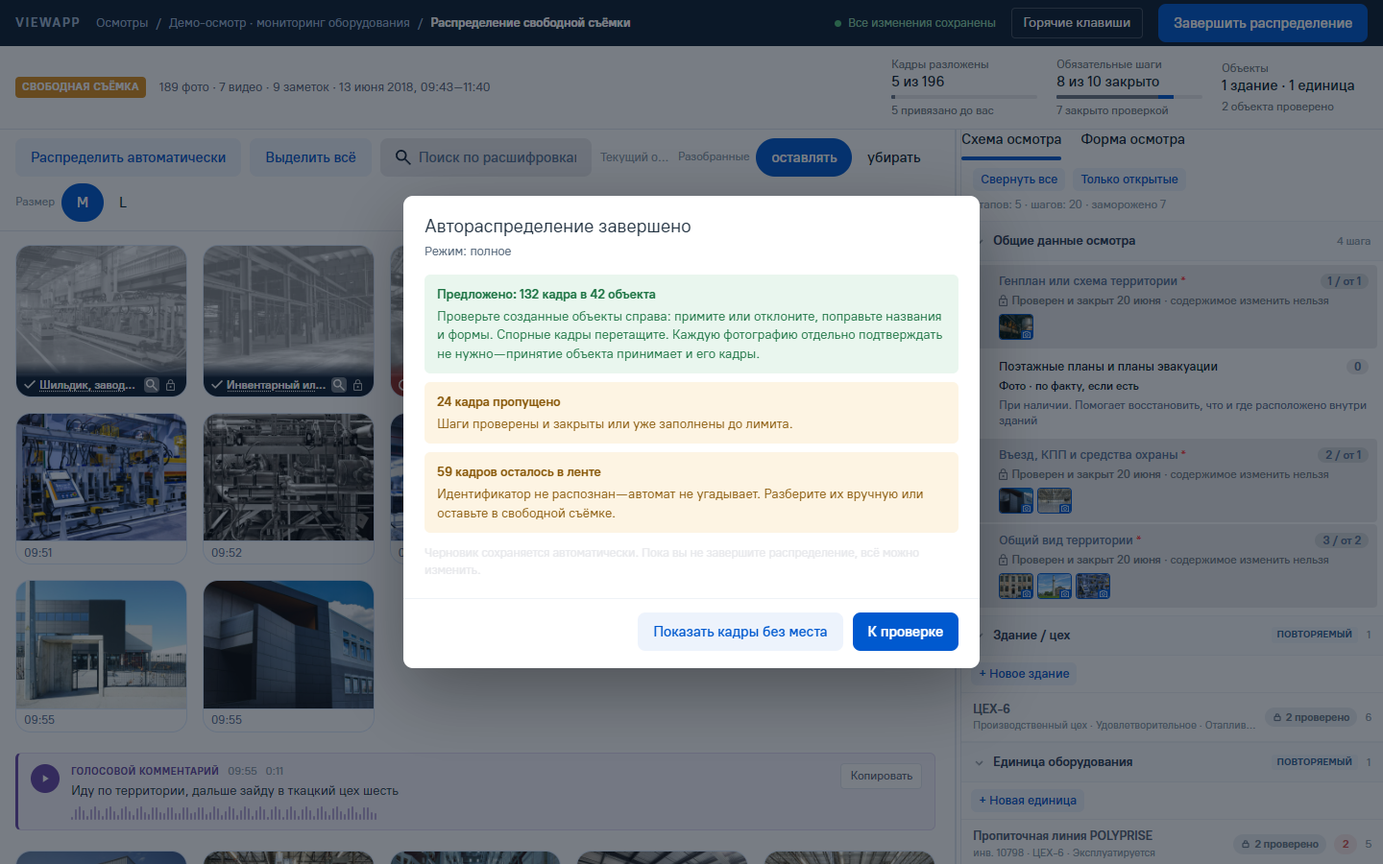
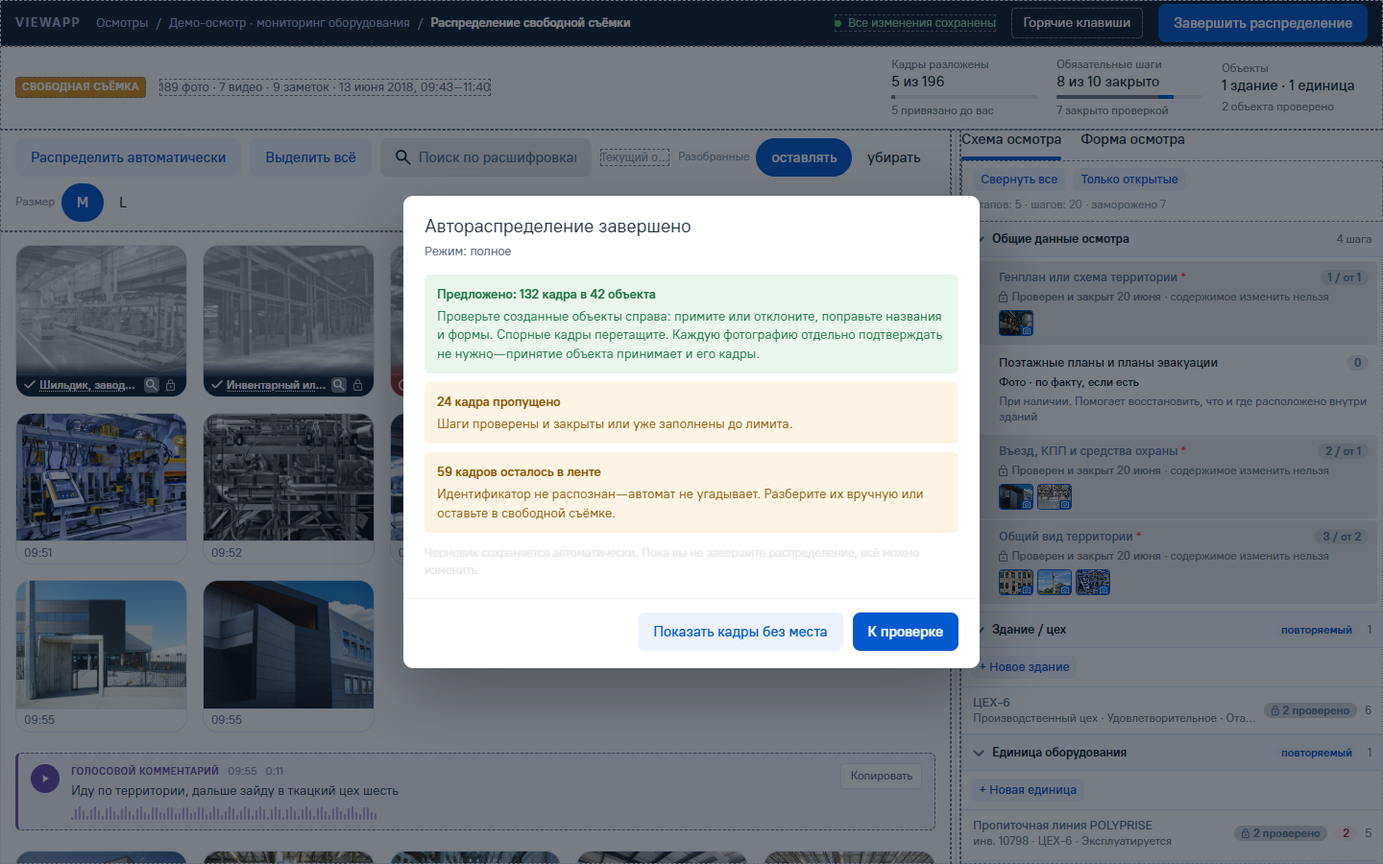
Такт 35, довесок 2: документы и снимки экрана с пунктиром
- CLAUDE.md: экран «как есть» — пунктир по умолчанию, ?asis=off,
  автопроверка покрытия в приёмке каждого такта.
- naming.md: оснастка ?asis по умолчанию / mark / off, правило экрана.
- free-shoot.md: 13.11 — довесок 2 и результат проверки.
- chat-protocol.md, handoff.md: довесок 2, базовая линия /compare 154 / 887.
- free-shoot-page-*.png пересняты по умолчанию, с пунктиром;
  free-shoot-page-1440-asis-off.png — без обводки.

diff --git a/docs/handoff.md b/docs/handoff.md
@@ -79,6 +79,7 @@
 | **34, часть 2** — сборка полноэкранного просмотра | `/free-shoot`, `/free-shoot/states`, `/compare` | четыре решения владельца 2026-09-23: `Lightbox` + слот `aside`, панель 440 (`--container-side-panel`), «1–N» только при текущем объекте, тон `success` у `SelectItem` для «кадр привязан сюда». `FrameStage`, `FrameBindBar`, `FrameMeta`, `FrameStatus` (`ui/frame-viewer/`); № 44–45 на ките, реестр 31 / 27. Исправлен дефект `FrameTile`: кнопки плитки не нажимались с клавиатуры. Кольца фокуса у `Button`/`IconButton`/`ButtonArrow` нет — вопрос владельцу. `/compare` 153 иконки, 819 текстовых узлов. Разбор и итог — `free-shoot.md`, раздел 12 |
 | **35** — кольцо фокуса, разбор центрального окна (стоп-точка) | кнопки кита, документы | решения владельца 2026-09-23. **Кольцо фокуса** у `Button`, `IconButton`, `ButtonArrow` — `focus-visible:ring-2` `--ring` (у кит 1 фокуса нет, прецедент тактов 30–33); в покое 517 кнопок `/compare` не изменились. У `ButtonAction` кольца нет — вопрос владельцу. **Центральное окно:** прототип снят (600 / 440, окно прокручивается целиком, прогресс не закрывается); у кита 1 центрального нет. Решений владельцу 2: каркас `ModalCard` (`side` = `Sheet`, `center`) и общие развилки с `Sheet`. План переноса окон — 4 такта. Разбор — `free-shoot.md`, раздел 13 |
 | **35, часть 2** — окно-карточка `ModalCard`, окна прогресса и клавиш | `/free-shoot`, `/free-shoot/states`, `/compare` | три решения владельца 2026-09-23: `ModalCard` в размещениях `edge` (642 = `Sheet`) и `center` (600 / 440), скругление 48 слева сверху; подложка `--overlay-modal` 40%, прокрутка только тела (`Scroll` 4px), кнопки 40 — вопрос 35 закрыт; кольцо фокуса у `ButtonAction`. `ui/modal-card/`, `ui/kbd/` (`Kbd`, `KbdText`, `ShortcutList`), `ProgressCounter`. Окна № 51 и № 57 на ките; реестр 33 / 25. Край против замеров кита 1 — совпадение. `/compare` 154 иконки, 886 текстовых узлов. Итог — `free-shoot.md`, 13.10 |
+| **35, довесок 2** — всё, что не компонент, видно глазом | `/free-shoot`, `/compare` | решение владельца 2026-09-23: блоки `data-asis` по умолчанию обведены пунктиром `--muted-foreground` (outline 1px), `?asis=off` — без обводки. «Автопроверка покрытия экрана свободной съёмки» на `/compare` (`app/stands/free-shoot/coverage.ts`): 19 состояний оснастки, 43 592 элемента, непомеченных 0; прогон — в приёмку каждого такта. Снимки экрана пересняты с пунктиром. `/compare` 154 / 887 |
 
 ### Такт 20 закрыт: паттерн закреплён
 
@@ -510,8 +511,8 @@ npm install && npm run dev
 
 Обе проверки запускаются **не в `onMounted`, а тактом позже** (`nextTick` плюс таймер): всё, что
 рисуется через `Presence` и порталы — окно, лайтбокс, поповеры, — появляется после монтирования
-страницы и раньше в выборку не попадало. Счётчик при этом сам по себе результат: сейчас 886
-текстовых узлов и 154 иконки (такт 35), и если после правок он не растёт вместе с витриной — проверка
+страницы и раньше в выборку не попадало. Счётчик при этом сам по себе результат: сейчас 887
+текстовых узлов и 154 иконки (такт 35, довесок 2), и если после правок он не растёт вместе с витриной — проверка
 ослепла, а не «узлов не прибавилось».
 
 Две автопроверки внизу `/compare`. **Шрифты:** обходит текстовые узлы внутри `[data-slot]`,

diff --git a/docs/naming.md b/docs/naming.md
@@ -515,6 +515,7 @@ License), 800×600, 4:3 — кроп на стороне Unsplash; файлы и
 | **Компонент кита внутри перенесённого блока — в `.kit-island`** | островок сбрасывает шрифт и цвет прототипа: компонент кита выглядит так же, как на любой другой странице |
 | **В одной строке контролов — одна высота** | правило экрана `/free-shoot`, довесок такта 31: кнопки тулбара ленты — `Button` md 40, как `Input` и `Tabs` pill рядом. Кнопки, стоящие в строке одни (инструменты панели), остаются sm. **Правило — для контролов с коробкой** (кнопки, поля, вкладки); строка выбора — флажок с подписью — коробки не имеет и выравнивается по оси центров: в полосе приёмки `Button` sm 24 и строка выбора 20 стоят на одной оси (решение чата после довеска такта 31) |
 | **Блок «как есть» не кладётся в слот компонента кита** | хвост `:not([data-slot] *)` отключает правила прототипа внутри любого `[data-slot]` — блок в слоте теряет свой CSS. Встретилось в такте 32: строка добавления повтора внутри `StageSection` — вошла в компонент пропом `addLabel` |
+| **Всё, что не компонент кита, видно глазом** | решение владельца 2026-09-23, довесок 2 к такту 35: блоки `data-asis` по умолчанию обведены пунктиром. Каждый видимый элемент с отрисовкой — внутри `[data-slot]` или `[data-asis]`; проверяет «Автопроверка покрытия экрана свободной съёмки» на `/compare` во всех значениях оснастки. Снимки экрана — по умолчанию, с пунктиром; пары «прототип / кит» — со стенда `/free-shoot/states` или с `?asis=off` |
 | **Разметка окон — снятая с прототипа** | `app/stands/free-shoot/prototype-data.json`: данные наборов и разметка окон, отрисованная функциями самого прототипа. Перерисовка окон вручную подменила бы «как есть» пересказом |
 
 **Оснастка приёмки экрана — не продукт.**
@@ -535,7 +536,9 @@ License), 800×600, 4:3 — кроп на стороне Unsplash; файлы и
 | `?open=finish` | сводка завершения (§17.4) |
 | `?view=review` | режим приёмки: полоса приёмки, предложенные объекты и кадры (§13) |
 | `?tab=form` | вкладка «Форма осмотра» |
-| `?asis=mark` | пунктир и подпись вокруг каждого `data-asis`; подписи — слоем поверх экрана, раскладка не сдвигается |
+| по умолчанию | тонкий пунктир 1px `--muted-foreground` вокруг каждого `data-asis` — незакрытое видно глазом без параметров; `outline`, геометрия не меняется (довесок 2 к такту 35) |
+| `?asis=mark` | пунктир толще (2px `--destructive`) и подпись вокруг каждого `data-asis`; подписи — слоем поверх экрана, раскладка не сдвигается |
+| `?asis=off` | без обводки — для чистых снимков и пар «прототип / кит» (довесок 2 к такту 35) |
 
 
 ### Такт 32: этап и карточка повтора

diff --git a/docs/free-shoot.md b/docs/free-shoot.md
@@ -1859,3 +1859,27 @@ Tab на «Сбросить все» (`/my-inspections`) — фокус есть
 повтор, зависимые и обязательные поля — вес выше, чем у стенда «История», и порция 4 продолжается на том же
 экране. Альтернатива — стенд «История» на `ModalCard edge` (`modal-family.md`, решение 5): ждёт решения владельца
 и переноса `sort`. Выбор — «Открыто у владельца».
+
+### 13.11. Довесок 2 — всё, что не компонент, видно глазом
+
+Решение владельца 2026-09-23: на стенде экрана всё, что не компонент кита, визуально отличается, чтобы
+незакрытое отслеживалось глазом без оснастки.
+
+- **Пунктир по умолчанию.** Блоки `data-asis` на `/free-shoot` всегда обведены: `outline` 1px пунктиром
+  `--muted-foreground` (neutral/default) — заметен на светлых блоках и на тёмной шапке легаси и не совпадает ни
+  с одной ролью состояний компонентов (рамки состояний — `--primary`, `--warning`, `--success`, `--destructive`,
+  `--ring`). `outline`, а не `border`, — геометрия не меняется. `?asis=mark` — пунктир толще и подписи (как
+  было), `?asis=off` — без обводки.
+- **Автопроверка покрытия** — `app/stands/free-shoot/coverage.ts` и раздел на `/compare` рядом с автопроверками
+  шрифтов и иконок: экран грузится в iframe во всех 19 значениях оснастки (`?open=`, `?view=`, `?tab=`, `?state=`,
+  `?selected=`), каждый видимый элемент с собственной отрисовкой (текст, фон, рамка, тень, изображение, `svg`)
+  должен лежать внутри `[data-slot]` или `[data-asis]`. Элемент в островке кита вне компонента — непомеченный.
+  Не считаются элементы меньше 2×2 — служебные визуально скрытые узлы.
+- **Результат:** 19 состояний, **проверено 43 592 элемента, непомеченных 0**. Первый прогон нашёл один узел —
+  объявление смены маршрута Nuxt (визуально скрытый блок 1×1 с заголовком страницы): отрисовки у него нет,
+  порог 2×2 его исключает. Проверка не слепая: подложенные элемент в `body` и текст в островке кита найдены
+  оба.
+- **Снимки** `free-shoot-page-*.png` пересняты по умолчанию, с пунктиром, плюс
+  [`free-shoot-page-1440-asis-off.png`](free-shoot-page-1440-asis-off.png) — без обводки. Пары «прототип / кит» —
+  со стенда `/free-shoot/states`, как и раньше.
+- `/compare`: 154 иконки, 887 текстовых узлов (+1 — кнопка запуска проверки покрытия), провалов нет.

diff --git a/CLAUDE.md b/CLAUDE.md
@@ -360,7 +360,7 @@ Headless-браузер снимает страницу **от начала до
 умеет. Поэтому состояния для снимков задаются параметрами адреса, и они помечены в коде как
 оснастка приёмки: `?open=`, `?only=`, `?view=`, `?filters=`,
 `?selected=`, `?rows=`, `?scroll=`, `?q=`, `?actions=demo`, `?values=demo`, `?state=` (экран
-`/free-shoot`: `link`, `flash`, `tooltip`, `drop`), `?open=` (с такта 34 и `viewer-flash`, с такта 35 — `hotkeys`) и `?view=review`, `?tab=form`, `?asis=mark` там же — список в `docs/naming.md`. В продукт они не идут.
+`/free-shoot`: `link`, `flash`, `tooltip`, `drop`), `?open=` (с такта 34 и `viewer-flash`, с такта 35 — `hotkeys`), `?asis=off` и `?view=review`, `?tab=form`, `?asis=mark` там же — список в `docs/naming.md`. В продукт они не идут.
 
 Наведение адресом не задать — у компонента для этого проп-оснастка `demoHover` (`FrameTile`,
 `StepRow`, `StepThumb`, такт 30; `AssignOption`, такт 33) и `tooltipOpen` у `FrameTile`: они повторяют вид наведения и
@@ -373,6 +373,18 @@ Headless-браузер снимает страницу **от начала до
 предложенного повтора побеждает фон текущего» — прототип рисует наоборот (`.obj.cur` ниже
 `.obj.auto`), ошибка вскрылась только на съёмке пары в такте 33. Сочетания в матрице пересечений
 снимаются так же, как одиночные состояния: выставить оба и снять computed.
+
+### Экран «как есть»: незакрытое видно глазом, покрытие проверяется
+
+На стенде экрана `/free-shoot` блоки «как есть» (`data-asis`) по умолчанию обведены тонким пунктиром —
+незакрытое видно без параметров; `?asis=off` снимает обводку для чистых снимков. Решение владельца
+2026-09-23 (довесок 2 к такту 35).
+
+**Приёмка каждого такта, трогающего экран:** на `/compare` — «Автопроверка покрытия экрана свободной
+съёмки» (кнопка запуска): каждый видимый элемент с отрисовкой во всех значениях оснастки лежит внутри
+`[data-slot]` или `[data-asis]`. Непомеченных — ноль; число проверенных элементов — строкой в отчёт.
+Найденное — либо в компонент кита, либо под `data-asis` с именем элемента реестра. Элемент в
+`.kit-island` вне компонента считается непомеченным: внешний блок «как есть» островок не покрывает.
 
 ### Класс снаружи мержится, а не приклеивается
 

diff --git a/docs/chat-protocol.md b/docs/chat-protocol.md
@@ -150,8 +150,8 @@
 (всё запушено). Nuxt 4 · Tailwind v4 · shadcn-vue поверх Reka UI.
 Перенос ДС Атома завершён: 9 волн, 41 компонент; темы `rososmotr`
 (рабочая) и `atom` (сверочная); `/compare` — наложение на эталоны и
-две автопроверки, базовая линия **154 иконки, 886 текстовых узлов**
-(такт 35 поднял со 153 / 819). Этап 2 обогащения закрыт: полевая обвязка и
+три автопроверки (шрифты, иконки и — по кнопке — покрытие экрана свободной съёмки), базовая линия
+**154 иконки, 887 текстовых узлов** (такт 35 поднял со 153 / 819). Этап 2 обогащения закрыт: полевая обвязка и
 `StatusBadge` из архива кита 1, `Chip`, `Slider`, `Dialog`, `Lightbox`,
 `Popover` на Reka (такт 28). Такт 30 добавил три составных компонента
 экрана свободной съёмки без мастера: `FrameTile`, `StepRow` + `StepThumb`,
@@ -486,6 +486,9 @@
   4px, кнопки 40 (вопрос 35 закрыт); кольцо у `ButtonAction`. Окна прогресса (№ 51) и «Горячие клавиши» (№ 57)
   на ките; реестр — китом **33**, как есть **25**. Край против замеров кита 1 — совпадение по всем числам
   (`free-shoot.md`, 13.10). `/compare` — 154 / 886, провалов нет.
+- **Довесок 2** (решение владельца 2026-09-23): на `/free-shoot` блоки «как есть» по умолчанию обведены пунктиром,
+  `?asis=off` — чистый экран; «Автопроверка покрытия экрана свободной съёмки» на `/compare` — 19 состояний
+  оснастки, 43 592 элемента, непомеченных 0; прогон — в приёмку каждого такта (`CLAUDE.md`). `/compare` — 154 / 887.
 
 ### Второй конвейер
 
